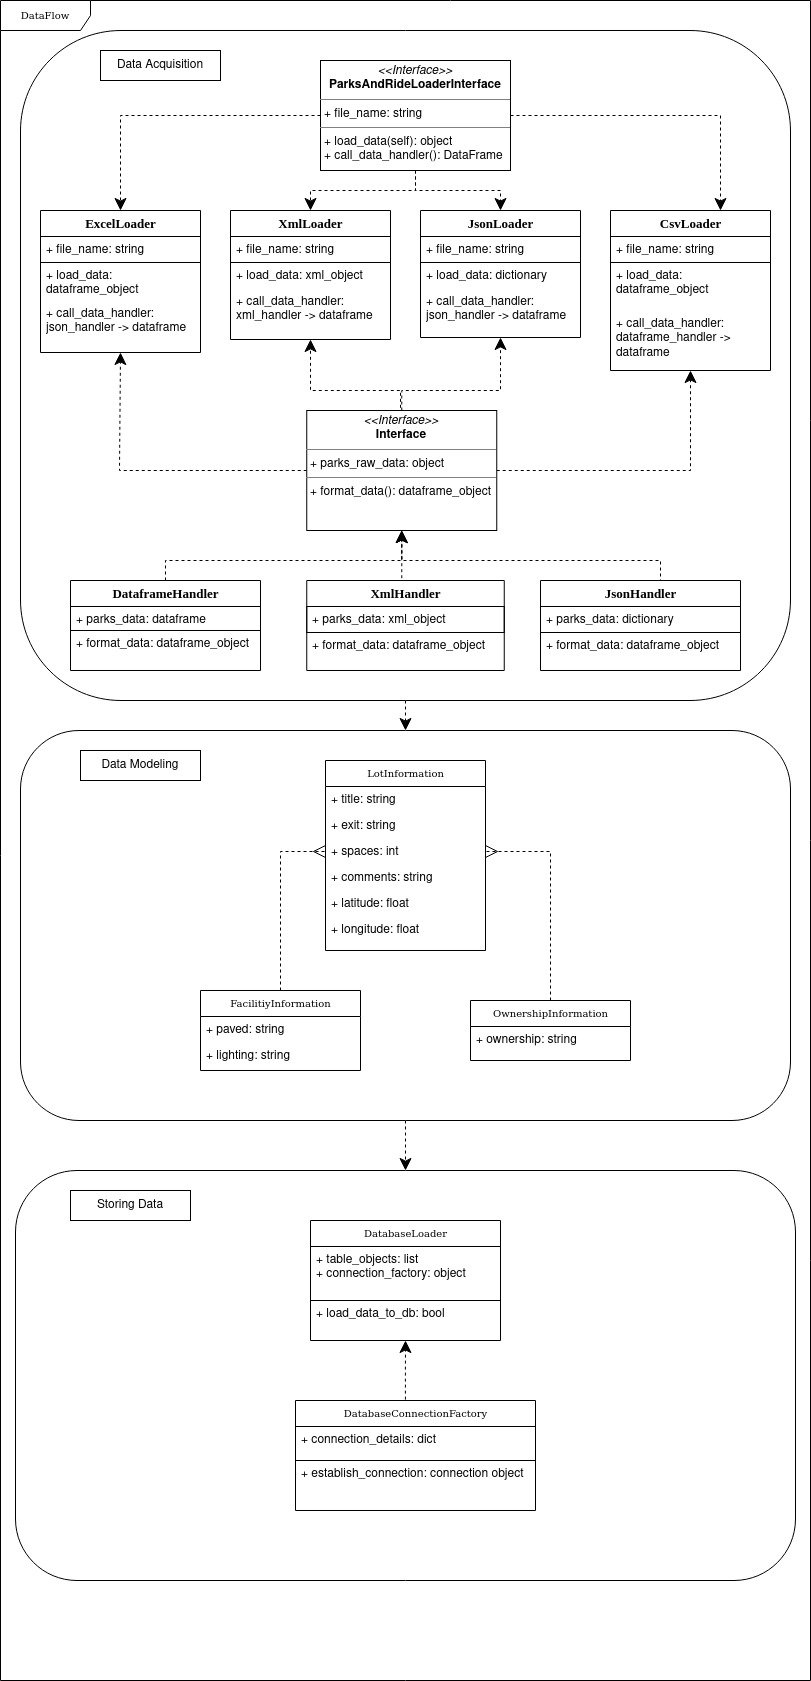
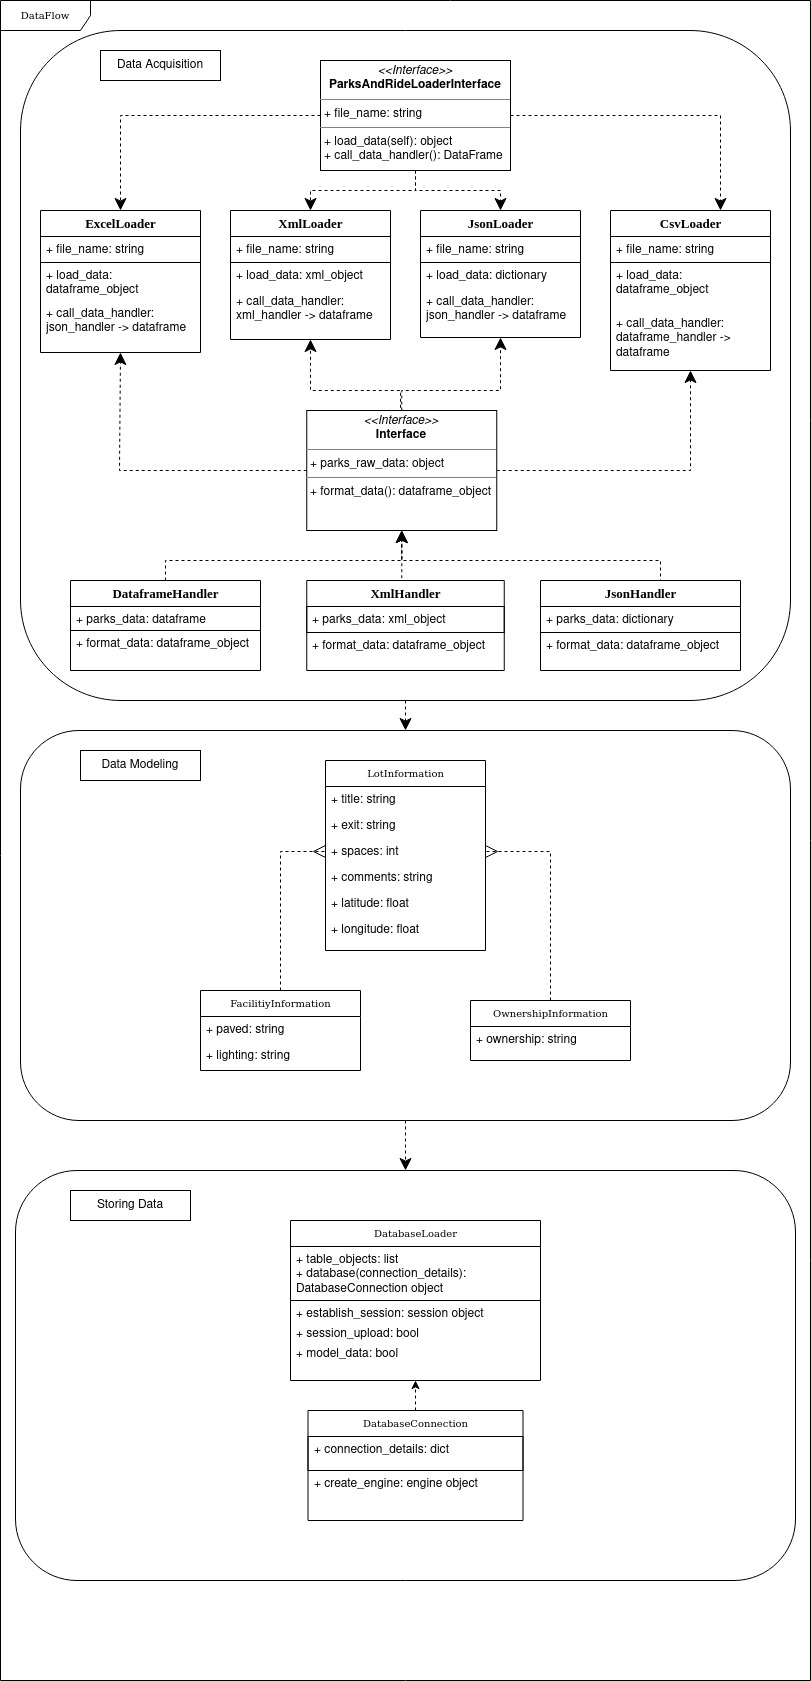
Restructuring repo

Changed region(s): [[0.3699, 0.7424, 0.6473, 0.8971]]

diff --git a/parks_and_ride_src/lambda_functions/data_modelling/database_interaction.py b/parks_and_ride_src/lambda_functions/data_modelling/database_interaction.py
@@ -1,0 +1,139 @@
+from sqlalchemy import create_engine
+from sqlalchemy import Table, Column, Integer, ForeignKey, String, Float
+from sqlalchemy.orm import relationship, sessionmaker
+from sqlalchemy.ext.declarative import declarative_base
+
+from utils.lamb_utilities import read_file_from_bucket
+
+
+Base = declarative_base()
+
+
+class LotInformation(Base):
+    __tablename__ = "lot_information"
+    id = Column(Integer, primary_key = True, autoincrement=True)
+    title = Column(String(100))
+    exit_ = Column(String(10))
+    spaces = Column(String(15))
+    comments = Column(String(100))
+    latitude = Column(Float)
+    longitude = Column(Float)
+    facility_id = Column(Integer, ForeignKey('facility_information.id'))
+    facility_info = relationship("FacilityInformation", backref="lot_information")
+    owner_id = Column(Integer, ForeignKey('ownership_information.id'))
+    ownership_info = relationship("OwnershipInformation", backref="lot_information")
+
+    def __repr__(self):
+        return f"<ID={self.id}, LotInformation(title={self.title}, latitude={self.latitude}, longitude={self.longitude}), facility_info={self.facility_info}, ownership_info={self.ownership_info}>"
+
+
+class FacilityInformation(Base):
+    __tablename__ = "facility_information"
+    id = Column(Integer, primary_key=True, autoincrement=True)
+    paved = Column(String(10))
+    lighting = Column(String(25))
+
+    def __repr__(self):
+        return f"<ID={self.id}, FacilityInformation(paved={self.paved}, lighting={self.lighting})>"
+
+
+class OwnershipInformation(Base):
+    __tablename__ = "ownership_information"
+    id = Column(Integer, primary_key=True, autoincrement=True)
+    ownership = Column(String(100))
+
+    def __repr__(self):
+        return f"ID={self.id}, OwnershipInformation(ownership={self.ownership})>"
+
+
+class DatabaseLoader:
+    
+    def __init__(self, processed_data: list, connection_details: dict, database_connection):
+        self.processed_data = processed_data
+        self.database = database_connection(connection_details)
+
+    def establish_session(self):
+        Session = sessionmaker()
+        Session.configure(bind = self.database.engine)
+        return Session()
+    
+    def session_upload(self):
+        try:
+            session = self.establish_session()
+            self.model_data(session)
+        except:
+            session.rollback()
+            raise
+
+        finally:
+            session.close()
+        
+        return True
+    
+    def model_data(self, session):
+
+        facility_info = {}
+        ownership_info = {}
+        for record in self.processed_data:
+            facility_tup = tuple([record['paved'], record['lighted']])
+            if facility_tup not in facility_info:
+                facility_model = FacilityInformation(
+                    paved=facility_tup[0], lighting=facility_tup[1]
+                )
+                session.add(facility_model)
+                facility_info[facility_tup] = facility_model            
+            
+            ownership = record['runby']
+            if ownership not in ownership_info:
+                ownership_model = OwnershipInformation(
+                    ownership=ownership
+                )
+                session.add(ownership_model)
+
+                ownership_info[ownership] = ownership_model
+
+        session.commit()
+        
+        lot_information = [
+            LotInformation(
+                title=record['title'],
+                exit_=record['exit'],
+                spaces=record['spaces'],
+                comments=record['comments'],
+                latitude=record['latitude'],
+                longitude=record['longitude'],
+                facility_info = facility_info[tuple([record['paved'], record['lighted']])],
+                ownership_info = ownership_info[record['runby']]
+            ) for record in self.processed_data
+        ]
+
+        session.add_all(
+            lot_information
+        )
+        session.commit()
+        
+        return True
+
+
+class DatabaseConnection:
+
+    def __init__(self, connection_details: dict):
+        self.engine = self.create_engine(connection_details)
+    
+    def create_engine(self, connection_details):
+        db_uri = connection_details["db_uri"]
+        extra_details = "extra_details" in connection_details
+        return create_engine(db_uri, **connection_details['extra_details']) if extra_details  else create_engine(db_uri)
+
+
+def load_to_database(processed_data, connection_details):
+    database_loader = DatabaseLoader(processed_data, connection_details, DatabaseConnection)
+    # Base.metadata.create_all(database_loader.database.engine)
+    database_loader.session_upload()
+    return True
+
+
+
+
+
+

diff --git a/parks_and_ride_src/lambda_functions/data_acquisition/acquire_data.py b/parks_and_ride_src/lambda_functions/data_acquisition/acquire_data.py
@@ -1,0 +1,107 @@
+import pandas as pd
+import numpy as np
+
+from abc import abstractmethod
+from utils.lamb_utilities import (
+    read_file_from_bucket, retrieve_values,
+    retrieve_record, validate_attributes,
+    determine_file_type, write_file_to_s3
+)
+
+
+class DataLoader:
+
+    def __init__(self, file_object: object):
+        self.file_object = file_object
+    
+    @abstractmethod
+    def load_data(self):
+        raise NotImplementedError("load_data is not implemented because it is an abstract method")
+
+
+    @abstractmethod
+    def call_data_handler(self):
+        raise NotImplementedError("call_data_handler is not implemented because it is an abstact method")
+
+
+class CsvDataLoader(DataLoader):
+    
+    def load_data(self):
+        return self.call_data_handler(pd.read_csv(self.file_object))
+        
+
+    def call_data_handler(self, raw_data):
+        return DataframeDataHandler(raw_data).format_data()
+
+
+class DataHandler:
+    
+    def __init__(self, parks_data):
+        self.parks_data = parks_data
+    
+    def format_data(self):
+        raise NotImplementedError("format_data is not implemented because it is an abstract method")
+
+
+class DataframeDataHandler(DataHandler):
+
+    def format_data(self):
+        work_parks_data = self.parks_data
+        work_parks_data.columns = list(map(lambda x: x.lower().strip().replace(" ", ""), work_parks_data.columns))
+        self.validate_column_names(work_parks_data.columns)
+        work_parks_data.drop(['location'], axis=1, inplace=True)
+        for column in work_parks_data.columns:
+            if work_parks_data[column].dtype == "object":
+                work_column = work_parks_data[column]
+                work_column.replace(np.nan, "None", inplace=True)
+                work_parks_data[column] = work_column.apply(lambda x: x.strip().lower().replace(" ", "_"))
+        return work_parks_data
+
+    def validate_column_names(self, columns):
+        verified_columns = ['title', 'exit', 'runby', 'spaces', 'paved', 'lighted', 'comments', 'latitude', 'longitude', 'location']
+        verification_result = [ValueError(f"Invalid Column: {column_value}") for column_value in columns if column_value not in verified_columns]
+        if verification_result:
+            raise ValueError(f"Invalid Columns Found: {verification_result}. Adjust csv if necessary.")
+
+
+DATA_LOADERS = {
+
+    "csv": CsvDataLoader
+}
+
+
+def handle_acquisition_setup(event):
+    record = retrieve_record(event)
+    bucket_name, file_name = retrieve_values(record, "s3", "bucket", "name"), retrieve_values(record, "s3", "object", "key")
+    validate_attributes(bucket_name=bucket_name, file_name=file_name)
+    streamed_file_object = read_file_from_bucket(str(bucket_name), str(file_name))
+    file_type = determine_file_type(file_name)
+    return file_type, streamed_file_object
+
+
+def determine_data_loader(file_type):
+    try:
+        return DATA_LOADERS[file_type]
+    
+    except KeyError:
+        raise KeyError(f"Unsupported File Type: {file_type}")
+    
+    except Exception as e:
+        raise e
+
+
+def load_and_format_data(data_loader, streamed_file_object):
+    data_loader_object = data_loader(streamed_file_object)
+    return  data_loader_object.load_data()
+
+
+def acquire_data(file_type, streamed_file_object):
+    data_loader = determine_data_loader(file_type)
+    return load_and_format_data(data_loader, streamed_file_object)
+
+
+def output_data_to_s3(bucket_name, folder, output_data, event):
+    file_value = retrieve_values(retrieve_record(event), "s3", "object", "key").split("/")[-1].split(".")[0]
+    file_name = f"{folder}/{file_value.lower()}_processed.json"
+    return write_file_to_s3(bucket_name, file_name, output_data)
+    

diff --git a/parks_and_ride_src/lambda_functions/utils/lamb_utilities.py b/parks_and_ride_src/lambda_functions/utils/lamb_utilities.py
@@ -1,0 +1,59 @@
+import boto3
+import json
+from pprint import pprint
+
+
+def read_file_from_bucket(bucket_name, file_name):
+    s3 = boto3.client("s3")
+    
+    try: 
+        content_object = s3.get_object(Bucket=bucket_name, Key=file_name)
+        return content_object['Body'] if "Body" in content_object else None
+    
+    except Exception as e:
+        raise e
+
+
+def write_file_to_s3(bucket_name, s3_path, context):
+    s3 = boto3.resource("s3")
+    try:
+        json_context = json.dumps(context)
+        # lambda_path = f"/tmp/{file_name}"
+        s3.Bucket(bucket_name).put_object(Key=s3_path, Body=json_context)
+        return bucket_name, s3_path
+    except Exception as e:
+        raise e 
+
+
+def determine_file_type(file_name):
+    return file_name.split(".")[-1]
+
+
+def retrieve_values(s3_record, *args):
+    record = s3_record
+    for key in args:
+        if key in record:
+            record = record[key]
+        else: 
+            return None, key
+
+    return record
+
+
+def retrieve_record(event): 
+    record = event.get("Records")
+    return record[0] if record else None
+
+
+def validate_attributes(**kwargs):
+    invalid_attrs = [
+        ValueError(f"Error while retrieving attribute: '{attr_name}' --- Key Nonexistent: '{record[-1]}'") for attr_name, record in kwargs.items() if isinstance(record, tuple)
+    ]
+    if invalid_attrs:
+        raise ValueError(
+            f"Processing following attribute errors: {invalid_attrs}. Please check output s3 event notification."
+        )
+
+def load_json(json_body):
+    return json.load(json_body)
+

diff --git a/parks_and_ride_src/lambda_functions/data_modelling/lambda_function.py b/parks_and_ride_src/lambda_functions/data_modelling/lambda_function.py
@@ -1,0 +1,24 @@
+from database_interaction import load_to_database
+from utils.lamb_utilities import (
+    retrieve_record, retrieve_values, read_file_from_bucket,
+    validate_attributes, load_json
+)
+from connection_details import ConnectionDetails
+
+
+def load_processed_data(event):
+    record = retrieve_record(event)
+    bucket_name, file_name = retrieve_values(record, "s3", "bucket", "name"), retrieve_values(record, "s3", "object", "key")
+    validate_attributes(bucket_name=bucket_name, file_name=file_name)
+    streamed_file_object = read_file_from_bucket(bucket_name, file_name)
+    return load_json(streamed_file_object)
+
+
+def lambda_handler(event, context):
+    processed_data = load_processed_data(event)
+    load_to_db = load_to_database(processed_data, ConnectionDetails)
+    return {
+        "IngestionStatus": "Success"
+    } if load_to_db else {
+        "IngestionStatus": "Faliure"
+    }

diff --git a/parks_and_ride_src/lambda_functions/data_acquisition/lambda_function.py b/parks_and_ride_src/lambda_functions/data_acquisition/lambda_function.py
@@ -1,0 +1,17 @@
+from acquire_data import (
+    handle_acquisition_setup, acquire_data, output_data_to_s3
+)
+
+
+BUCKET_NAME = "parks-and-ride-test"
+FOLDER="processed_data"
+
+def lambda_handler(event, context):
+    file_type, streamed_file_object = handle_acquisition_setup(event)
+    acquired_data = acquire_data(file_type, streamed_file_object)
+    bucket_name, file_name = output_data_to_s3(BUCKET_NAME, FOLDER, acquired_data.to_dict(orient="records"), event)
+    
+    return {
+        "bucket_name": bucket_name,
+        "file_name": file_name
+    }

diff --git a/parks_and_ride_src/tests/test_parks_and_ride.py b/parks_and_ride_src/tests/test_parks_and_ride.py
@@ -1,0 +1,5 @@
+from parks_and_ride import __version__
+
+
+def test_version():
+    assert __version__ == '0.1.0'
